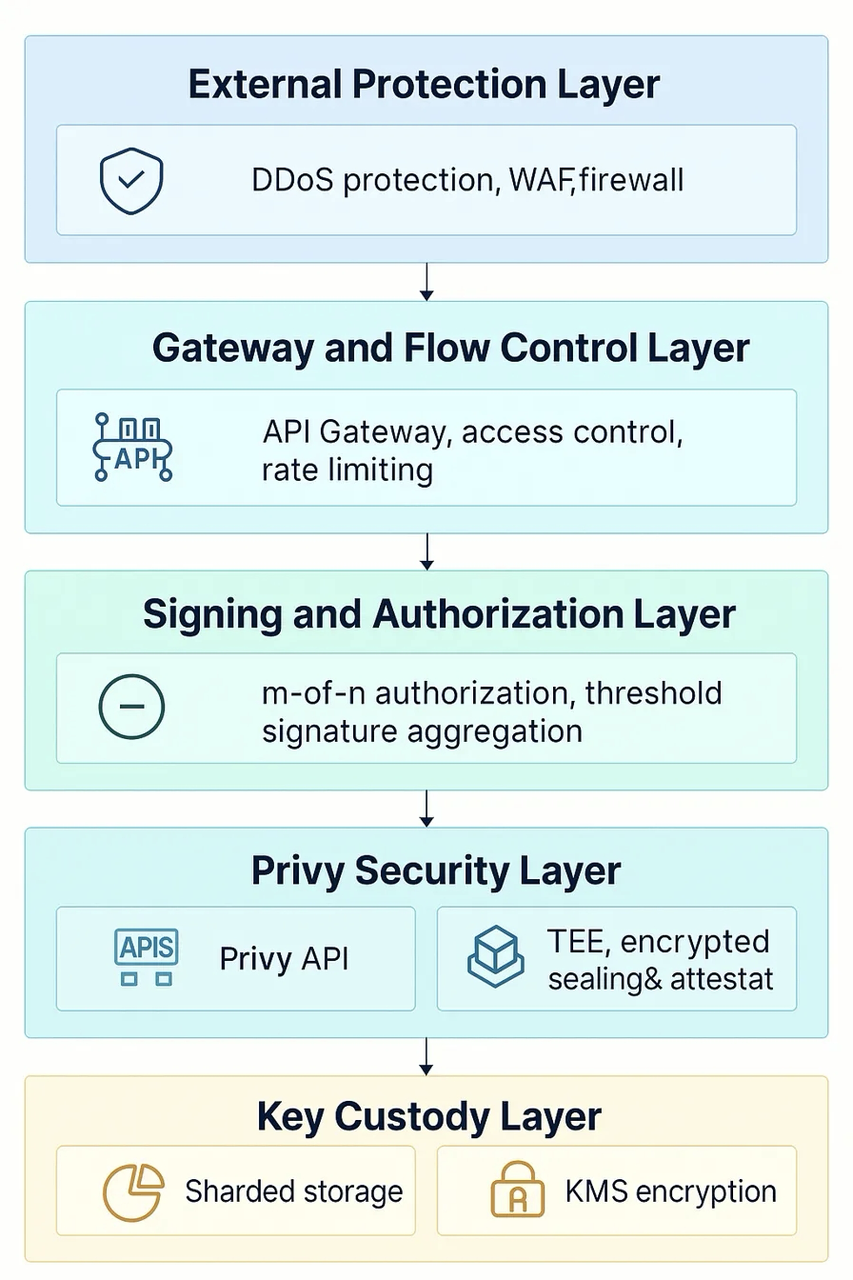
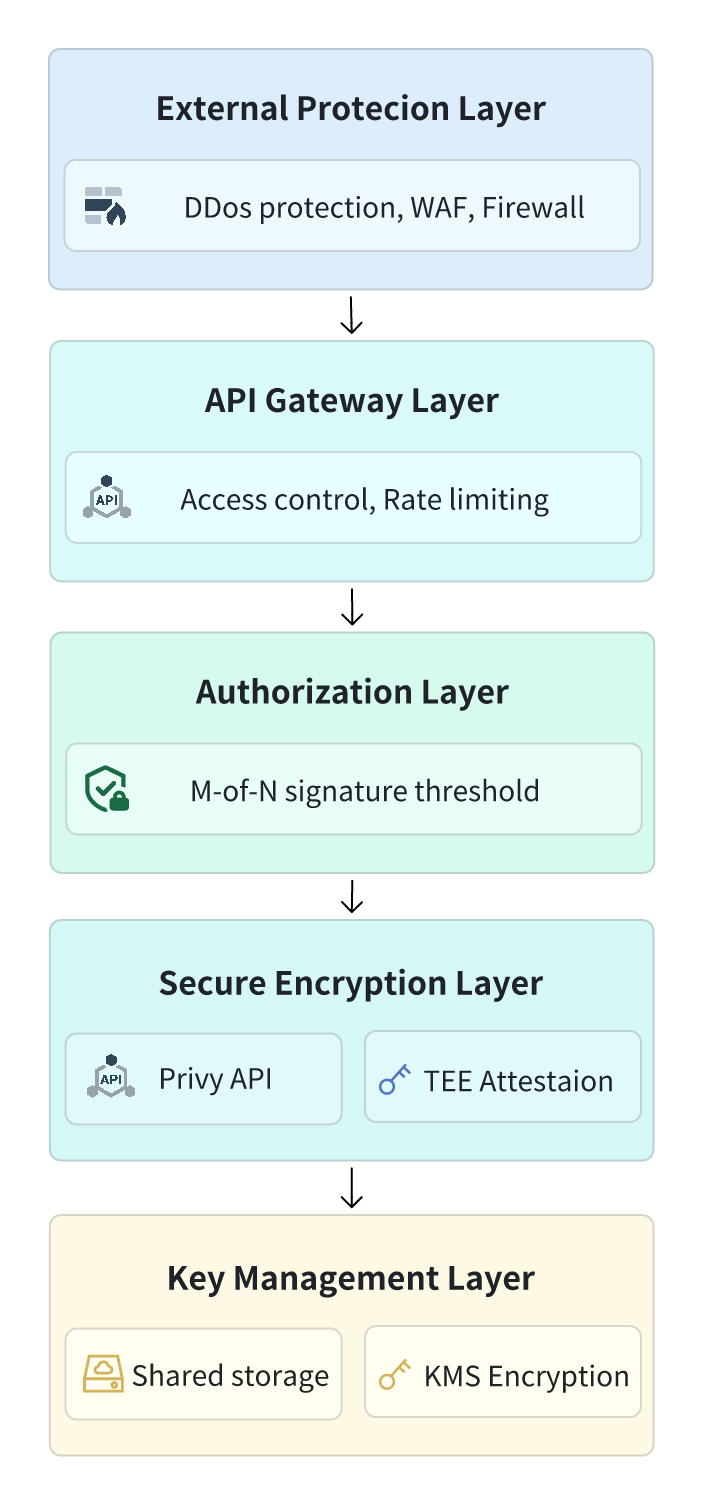
GITBOOK-23: No subject

diff --git a/mechanism/deep-research.md b/mechanism/deep-research.md
@@ -1,2 +1,13 @@
 # Deep Research
 
+## Overview
+
+
+
+## Example
+
+Send the prompt below to Minara:
+
+> "Create a professional BTC investment analysis report with rich visuals and in-depth insights, which covers all key aspects, including macro market trends, major news, short- and long-term technical indicators, ETF data, community sentiment, capital inflows and outflows, and investment strategies."
+
+The output: [https://space.minara.ai/reports/btc-analysis-report-en-0726-1.html](https://space.minara.ai/reports/btc-analysis-report-en-0726-1.html)

diff --git a/mechanism/wallet-security.md b/mechanism/wallet-security.md
@@ -21,7 +21,7 @@ Funding wallet is based on [Universal Account](https://developers.particle.netwo
 
 ## Controller Wallet
 
-<figure><img src="../.gitbook/assets/image (1).png" alt="" width="375"><figcaption></figcaption></figure>
+<figure><img src="../.gitbook/assets/image (1) (1).png" alt="" width="375"><figcaption></figcaption></figure>
 
 Minara's Controller Wallet leverages Privy, TEE (Trusted Execution Environment) and a multi-party authorization signing mechanism. Its core features include:
 

diff --git a/SUMMARY.md b/SUMMARY.md
@@ -18,6 +18,7 @@
   * [How to create a grid trading bot?](guide/workflow/how-to-create-a-grid-trading-bot.md)
   * [How to create a copy trading bot?](guide/workflow/how-to-create-a-copy-trading-bot.md)
 * [How to withdraw funds?](guide/how-to-withdraw-funds.md)
+* [How to create an analysis report](guide/how-to-create-an-analysis-report.md)
 
 ## Mechanism
 

diff --git a/guide/how-to-create-an-analysis-report.md b/guide/how-to-create-an-analysis-report.md
@@ -1,0 +1,2 @@
+# How to create an analysis report
+
